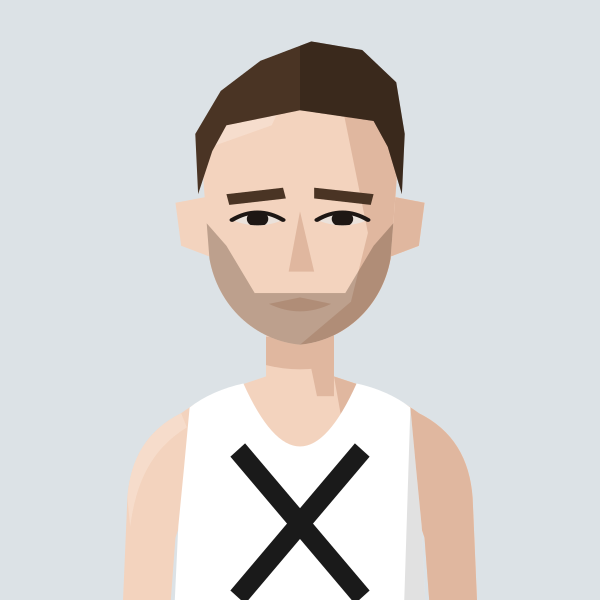
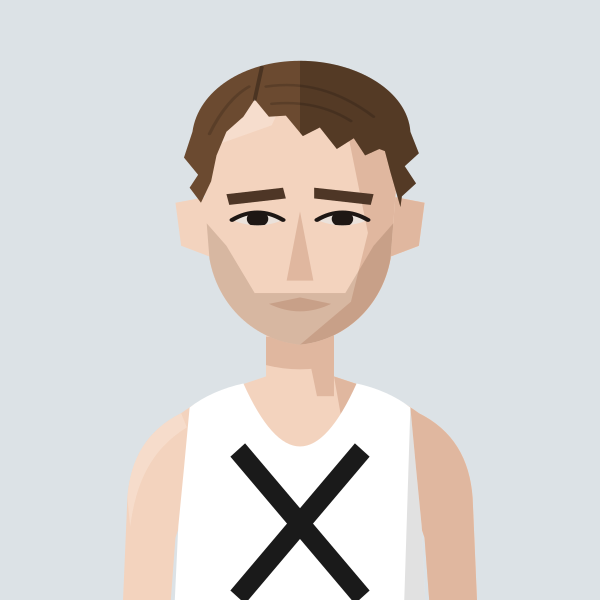
Redraw James McMullan portrait
Claude-Session: https://claude.ai/code/session_01MgmDWhFqnSSnP4iBLKXUZC

Changed region(s): [[0.3, 0.06, 0.72, 0.33], [0.33, 0.36, 0.6, 0.57]]

diff --git a/files/index.html b/files/index.html
@@ -887,7 +887,7 @@ const portraitFile=(name,club)=>{const k=normalizeNameForCompare(name||'').repla
 const portraitClubOf=(name,clubs)=>{for(const c of clubs||[]){if(c&&portraitFile(name,c))return c;}return null;}; /* first of these clubs we have a portrait for */
 // Athlete header figure: superstar portrait if we have one, else a grey runner in the club vest, else the plain vest icon
 // Changes whenever any portrait changes (set by tools/build_og.py), so browsers fetch fresh images instead of old cached ones
-const PORTRAIT_V='518c416c';const PORTRAIT_WOMEN='abbey-brooke,abbie-bulbulian,adele-prince,aimee-hargreaves,aisling-ahern,alex-brown,alex-gandee,alex-marginean,alex-miller,alexa-parker,alexandra-barbour,alice-braham,alice-bridger-morales,alice-crane,alice-martin,alice-reed,alice-smith,alison-purnell,alison-thomson,amelia-pettitt,amy-clements,andrea-barber,anika-schwarze-chintapatla,anna-garnier,anna-garnier-hw,anna-sharp,annabel-hobday,annabelle-hadlow,anne-hegvold,annmarie-seymour,ava-mcandie,becky-briggs,bethan-goddard,bethanie-murray,bethany-brown,betsy-griffiths,billie-mcclosky,camilla-barden,caoimhe-nic-fhogartaigh,carolyne-baxter,catherine-bryson,catherine-eastham,catherine-kandie,cathy-ansell,charlotte-griffiths,chloe-beckett,chloe-tighe,chrissie-wellington,claire-grima,clara-pettit,clare-elms,clare-pauzers,dillan-quinn,dorchie-cockerell,eilidh-hide,elinor-skinner,eliza-grant,elizabeth-apsley,elizabeth-stavreski,ella-fennelly,ella-king-powrie,ella-may-hards,ella-newton,ellen-weir,ellie-brown,ellie-freeden,eloise-bull,emilie-arnoux,emily-barrett,emily-bradley,emily-lowery,emily-robbins,emma-bond,emma-gordon,emma-howsham,emma-lord,emma-rowland,estle-viljoen,evie-warren,felicity-cole,felicity-harrison,felicity-hayward,fi-maddocks,fiona-clark,fiona-de-mauny,florence-wiggins,gabby-collison,gabriel-reynolds,gemma-newport,genevieve-blanch,georgia-curry,georgie-bruinvels,georgie-fenn,georgie-furze,georgie-grgec,gina-galbraith,grace-leyland,grace-richardson,hannah-edwards,hannah-english,hayley-munn,hayley-munn-cc,heather-statham,heather-statham-cc,helen-alsop,helena-corbin,helena-keenan,holly-nixon,holly-pan,imogen-mackie,imogen-wolsey,iona-cousland,isabel-bradley,isabel-brinsden,isabel-hodder,isabelle-pickett,jennifer-nandi,jennifer-smith,jess-reed,jess-saunders,jess-winfield,jessica-davies,jessica-lowe,jodie-favell,jon-hobbs,josephine-rhodes,julia-bleasdale,julia-wedmore,juliet-hodder,juliette-clark,jurgita-levertaviciute,justine-lynch,karen-fenner,karen-xiang,karina-box,kate-axford,kate-williams,kathy-sharpe,katie-ellen-french,katie-good,katie-snowden,katy-hedgethorne,kitty-shepherd-cross,kristina-popadich,lara-bromilow,lara-mangan,laura-goodson,laura-miles,lauren-major,lea-adamson,lily-newton,lisa-bailey,lisa-thomas,lisa-thomas-hw,lizzie-goldie-scot,louise-cooper,lucy-jones,lucy-macalister,lucy-peters,lydia-blackmore,lydia-gallyer-barnett,maddie-mastrolonardo,maddy-whitman,maeve-kenny,margaret-coogan,martina-conner,mary-james,mary-setyabule,matilde-lomba,megan-gildea,mel-wilkins,mhairi-hall,mimi-corden-lloyd,molly-oconnor,molly-smith,monika-gajek,naomi-lenane,natalie-beadle,natalie-seymour,natasha-lodge,niamh-thompson,nicky-hayes,nicola-cartlidge,nicola-douglas,nikki-haines,nikki-sturzaker,nina-mills,olivia-papaioannou,olivia-stillman,orna-mcginley,pamela-mchutchon,patricia-walker,patrizia-gnoato,penny-oliver,rachel-brown,rebecca-barrow,rebekah-edgar,rosie-powell,ruby-carter,ruby-whyte-wilding,ruby-woolfe,sally-urquhart,sally-young,sally-young-slh,sam-whiting,samantha-munday,sarah-astin,sarah-dewhirst,sarah-grover,sarah-hanley,sarah-holt,sarah-murphy,sarah-palmer,sarah-palmer-ran,sarah-riceman,sarah-young,saron-haileselase,serena-carter,sophie-cowper,sophie-harris,sophie-hicks,sophie-tooley,stacey-ward,steph-hewitt,steph-mccall,steph-mccall-cc,steph-mccall-slh,steph-mitchell,suzanne-swaine,suze-spalding,suzie-harvey,suzy-whatmough,syreeta-stracey,teresa-murphy,tilly-heaton,tilly-heaton-bel,tish-jones,vic-cartwright,vicky-clarke,vicky-edwards,victoria-barthelmess,victoria-buck,vikki-filsell,zoe-doyle,zoe-macdonald,zuzana-nemeckova';const PORTRAIT_MEN='aaron-wilson,abdulla-elsadig,adam-leane,adrian-major,adrien-royer,alan-black,alan-mead,alex-brecker,alex-bruce-littlewood,alex-gutteridge,alex-harris,alex-howard,alex-janiaud,alex-lee,alex-lennon,alex-mills,alex-milne,alex-morales,alex-robinson,alex-yee,alexander-marks,amittai-ben-israel,andrew-cumine,andrew-green,andrew-penney,andrew-perfect,andrew-simms,andrew-warburton,andrius-jaksevicius,andy-coley-maud,andy-coley-maud-cc,andy-fyfe,andy-north,andy-paton,andy-weir,angus-butler,angus-lamb,anisse-ismaili,arlo-ludewick,arne-dumez,arthur-peel,ashley-goncalves,barnaby-day,barry-collins,barry-sawyer,ben-clarke,ben-coughlan,ben-harding,ben-hurley,ben-ireland,ben-millar,ben-paviour,ben-pearce,ben-racle,ben-revill,ben-reynolds,ben-scott,ben-toomer,benedict-whitby,benjamin-hilson,bernie-ford,bill-kerr,bill-weller,bill-weller-wal,bob-harrison,bob-holt,bob-lunnon,bob-rayman,bob-smith,bradley-courtney-pinn,brandon-dewar,brian-gorman,brian-wilder,caleb-hathaway,callum-stewart,cameron-dockerill,cameron-reilly,carl-delaney,charles-herrington,charlie-dabbs,charlie-dickinson,charlie-eastaugh,charlie-manning,charlie-pickett,charlie-rogers,charlie-sandison,charlie-walker,charlie-wyllie,che-compton,chris-busaileh,chris-busaileh-hhh,chris-greenwood,chris-keavey,chris-moss,chris-steer,chris-threadgold,chris-warren,christian-lee,christopher-parker,clive-gilby,clive-shippen,colin-high,colin-pearson,conall-mcnally,conall-whelan,craig-ruddy,dame-dibaba,dan-cliffe,dan-pettitt,daniel-shaw,daniel-wolff,darren-mead,dave-beard,dave-beaver,dave-clarke,dave-glassborow,dave-hill,dave-holt,dave-taylor,david-anderson,david-bowers,david-grima,david-north,david-ogden,david-symons,david-walsh,david-williams,deron-fagan,dick-piotrowski,dimos-evangelidis,dom-nolan,dominic-kiralyfi,don-anderson,don-faircloth,don-maclean,doug-maughan,duncan-rimmer,dylan-evans,dylan-mitchard,ed-brewer,ed-catmur,ed-gibson,ed-mallett,ed-prickett,eddie-herridge,eddie-jodrell,eddie-rolls,edward-chuck,eoin-brady,eoin-molloy,ethan-mccolgan,falilou-kebe,findlay-dyer,finn-johnson,fintan-pearce,frank-tickner,frank-ward,fred-paget,fred-slemeck,fred-stebbings,freddie-hessian,garret-lee,gary-ribbons,gary-ribbons-ee,gary-staines,gary-staines-bel,gavin-eccles,geoff-biscoe,geoff-jerwood,geoff-north,george-cotton,george-gathercole,george-jackson,george-loxton,george-mallett,george-ogden,gerry-adams,gerry-north,glen-keegan,gordon-pearce,graham-macky,grenville-tuck,harrison-hayman,harry-guttridge,hector-revill,henry-hart,henry-silverstein,hugo-hewitt,huw-lobb,ian-acreman,ian-crowe-wright,ian-ellwood,ian-harkness,indy-barnes,isaac-lutaya,isaac-parker,jack-brotchie,jack-dickson,jack-dormer,jack-hampshire,jack-harrison,jack-hobden,jack-kavanagh,jack-millar,jack-ramm,jack-woods,jacob-brockmann,jake-simmonds,james-bartram,james-blackwood,james-bowler,james-estall,james-ewing,james-fox,james-hancock,james-harvey,james-hoad,james-kelly,james-mcmullan,james-murray,james-nutt,james-preston,james-roberts,james-stockings,james-ward,james-wootton,jamie-crowe,jamie-parkinson,jared-martin,jean-paul-wright,jeff-cunningham,jeremy-dempsey,jermaine-mays,jerry-watson,jim-allchin,jim-rimmer,joachim-wolf,joe-english,joe-hartley,john-baker,john-bicourt,john-bromley,john-davies,john-dear,john-foss,john-foxall,john-gilbert,john-gladwin,john-hutchins,john-kendall,john-kimaiyo,john-lee,john-lethbridge,john-mather,john-moore,john-roberts,john-sanderson,john-snowden,john-stow,john-sullivan,john-thresher,jon-pepper,jon-pepper-slh,jon-phillips,jon-solly,jonathan-cocker,jonathan-collier,jonathan-cornish,jonathan-ratcliffe,jonathan-tipper,jonny-neville,jonny-scott,jordan-weaver,josh-mitchell,josh-snow,josh-trigwell,jules-gevers,junior-galley,justin-chaston,justin-reid,kassa-tadesse,keith-newton,ken-penney,ken-penney-cro,kevin-nash,kevin-quinn,kevin-sturman,kieran-barnes,kieran-white,knut-hegvold,knut-hegvold-bel,larry-ryan,lawrence-avery,lee-lintern,leo-coy,les-presland,les-presland-sur,lewis-lloyd,liam-burthem,lionel-mann,lloyd-kempson,luke-caldwell,macgregor-cox,mack-downie,malachi-byansi,marcello-bizio,marcelo-fortes,marco-mazzotta,mark-anderson,mark-miles,mark-sinclair,mark-tennyson,mark-waller,martin-dent,martin-duff,martin-lake,martin-lewington,martin-shore,mathew-speed,matt-chaston,matt-jones,matt-wood,matt-yates,matthew-edgar,matthew-houchell,matthew-thomas,matthew-varley,max-bloor,max-heyden,max-milarvie,max-nicholls,michael-baker,michael-mccarthy,mick-gowan,mick-woods,mike-beevor,mike-boyle,mike-cummings,mike-farmery,mike-fuller,mike-hayes,mike-kortenray,mike-nouch,mohammed-ismail,monty-hudson,morgan-roberts,nathan-visick,neil-chisholm,neil-phillips,neil-speaight,neil-wilson,nic-lukies,nick-acfield,nick-altmann,nick-bester,nick-bester-hhh,nick-buckle,nick-bundle,nick-goolab,nick-lightfoot,nick-morris,nick-torry,noah-fernandez,norman-stairs,oli-carrington,oliver-carrington,oliver-fox,oliver-reynolds,oliver-young,ollie-foote,ollie-garrod,olly-buck,owen-hind,paddy-roddy,pancho-panchev,paskar-owor,pat-newell,patrick-mcdougall,paul-calver,paul-cheetham,paul-evans,paul-freary,paul-magner,paul-pollock,paul-sanderson,paul-sanderson-wok,pete-carton,pete-gardner,peter-clarke,peter-giles,peter-giles-thh,peter-lighting,phil-carstairs,phil-sanders,phil-sesemann,phil-swinburn,phil-wicks,phil-woodford-smith,raj-paranandi,ralph-street,ranjit-bhatia,ray-foley,reece-edwards,rhys-boorman,rian-mccawley,richard-ashe,richard-giles,richard-henderson,richard-langley,richard-mcdowell,richard-ollington,richard-partridge,richard-sun,richard-ward,rob-armstrong,rob-kelly,rob-tuer,robert-elphick,robert-laing,robert-norville,robert-peacock,robert-sesemann,robin-boon,robin-hudson,roger-alsop,roger-alsop-bel,roger-hackney,ron-clark,ron-linstead,ronan-tanguy,rory-mcmahon,rory-orsborn,ross-braden,ross-christie,rowan-board,rowan-crichton,russell-dessaix-chin,ryan-hickey,ryan-mccallister,sam-bramwell,sam-charlton,sam-gebreselassie,sam-haughian,sam-peters,sam-sommerville,sam-tyas,samuel-dames,samuel-wilcock,sean-cordon,sebastian-anthony,simon-baines,simon-coombes,simon-coppard,simon-fairbrother,simon-holmes,simon-rayner,simon-rayner-hw,simon-wade,simon-wade-hhh,simon-waterhouse,simon-williams,simon-wurr,sonny-nicoll,spencer-barden,stephen-mcleod,stephen-sharp,steve-badgery,steve-badgery-mit,steve-gardner,steve-jones,steve-smythe,steve-smythe-hhh,stuart-beaney,stuart-major,stuart-major-thh,stuart-mccallum,stuart-paton,terry-booth,thomas-dugre,thomas-gandee,thomas-gardner,thomas-renshaw,tim-alexander,tim-eglen,tim-lawrence,tim-watson,toby-cooke,toby-fletcher,tom-austin,tom-cheetham,tom-conlon,tom-davies,tom-gifford,tom-higgs,tom-jervis,tom-lole,tom-south,tom-thornley,tommy-taylor,tony-binda,tony-fairclough,tony-harran,trevor-hart,trevor-williams,valdis-pauzers,valentin-rigori,vic-maughan,wayne-oxborough,will-cockerell,will-lewis,will-marshall,will-scott,will-stockley,william-gardner,yacin-yusuf,zach-nolan';
+const PORTRAIT_V='33d50a44';const PORTRAIT_WOMEN='abbey-brooke,abbie-bulbulian,adele-prince,aimee-hargreaves,aisling-ahern,alex-brown,alex-gandee,alex-marginean,alex-miller,alexa-parker,alexandra-barbour,alice-braham,alice-bridger-morales,alice-crane,alice-martin,alice-reed,alice-smith,alison-purnell,alison-thomson,amelia-pettitt,amy-clements,andrea-barber,anika-schwarze-chintapatla,anna-garnier,anna-garnier-hw,anna-sharp,annabel-hobday,annabelle-hadlow,anne-hegvold,annmarie-seymour,ava-mcandie,becky-briggs,bethan-goddard,bethanie-murray,bethany-brown,betsy-griffiths,billie-mcclosky,camilla-barden,caoimhe-nic-fhogartaigh,carolyne-baxter,catherine-bryson,catherine-eastham,catherine-kandie,cathy-ansell,charlotte-griffiths,chloe-beckett,chloe-tighe,chrissie-wellington,claire-grima,clara-pettit,clare-elms,clare-pauzers,dillan-quinn,dorchie-cockerell,eilidh-hide,elinor-skinner,eliza-grant,elizabeth-apsley,elizabeth-stavreski,ella-fennelly,ella-king-powrie,ella-may-hards,ella-newton,ellen-weir,ellie-brown,ellie-freeden,eloise-bull,emilie-arnoux,emily-barrett,emily-bradley,emily-lowery,emily-robbins,emma-bond,emma-gordon,emma-howsham,emma-lord,emma-rowland,estle-viljoen,evie-warren,felicity-cole,felicity-harrison,felicity-hayward,fi-maddocks,fiona-clark,fiona-de-mauny,florence-wiggins,gabby-collison,gabriel-reynolds,gemma-newport,genevieve-blanch,georgia-curry,georgie-bruinvels,georgie-fenn,georgie-furze,georgie-grgec,gina-galbraith,grace-leyland,grace-richardson,hannah-edwards,hannah-english,hayley-munn,hayley-munn-cc,heather-statham,heather-statham-cc,helen-alsop,helena-corbin,helena-keenan,holly-nixon,holly-pan,imogen-mackie,imogen-wolsey,iona-cousland,isabel-bradley,isabel-brinsden,isabel-hodder,isabelle-pickett,jennifer-nandi,jennifer-smith,jess-reed,jess-saunders,jess-winfield,jessica-davies,jessica-lowe,jodie-favell,jon-hobbs,josephine-rhodes,julia-bleasdale,julia-wedmore,juliet-hodder,juliette-clark,jurgita-levertaviciute,justine-lynch,karen-fenner,karen-xiang,karina-box,kate-axford,kate-williams,kathy-sharpe,katie-ellen-french,katie-good,katie-snowden,katy-hedgethorne,kitty-shepherd-cross,kristina-popadich,lara-bromilow,lara-mangan,laura-goodson,laura-miles,lauren-major,lea-adamson,lily-newton,lisa-bailey,lisa-thomas,lisa-thomas-hw,lizzie-goldie-scot,louise-cooper,lucy-jones,lucy-macalister,lucy-peters,lydia-blackmore,lydia-gallyer-barnett,maddie-mastrolonardo,maddy-whitman,maeve-kenny,margaret-coogan,martina-conner,mary-james,mary-setyabule,matilde-lomba,megan-gildea,mel-wilkins,mhairi-hall,mimi-corden-lloyd,molly-oconnor,molly-smith,monika-gajek,naomi-lenane,natalie-beadle,natalie-seymour,natasha-lodge,niamh-thompson,nicky-hayes,nicola-cartlidge,nicola-douglas,nikki-haines,nikki-sturzaker,nina-mills,olivia-papaioannou,olivia-stillman,orna-mcginley,pamela-mchutchon,patricia-walker,patrizia-gnoato,penny-oliver,rachel-brown,rebecca-barrow,rebekah-edgar,rosie-powell,ruby-carter,ruby-whyte-wilding,ruby-woolfe,sally-urquhart,sally-young,sally-young-slh,sam-whiting,samantha-munday,sarah-astin,sarah-dewhirst,sarah-grover,sarah-hanley,sarah-holt,sarah-murphy,sarah-palmer,sarah-palmer-ran,sarah-riceman,sarah-young,saron-haileselase,serena-carter,sophie-cowper,sophie-harris,sophie-hicks,sophie-tooley,stacey-ward,steph-hewitt,steph-mccall,steph-mccall-cc,steph-mccall-slh,steph-mitchell,suzanne-swaine,suze-spalding,suzie-harvey,suzy-whatmough,syreeta-stracey,teresa-murphy,tilly-heaton,tilly-heaton-bel,tish-jones,vic-cartwright,vicky-clarke,vicky-edwards,victoria-barthelmess,victoria-buck,vikki-filsell,zoe-doyle,zoe-macdonald,zuzana-nemeckova';const PORTRAIT_MEN='aaron-wilson,abdulla-elsadig,adam-leane,adrian-major,adrien-royer,alan-black,alan-mead,alex-brecker,alex-bruce-littlewood,alex-gutteridge,alex-harris,alex-howard,alex-janiaud,alex-lee,alex-lennon,alex-mills,alex-milne,alex-morales,alex-robinson,alex-yee,alexander-marks,amittai-ben-israel,andrew-cumine,andrew-green,andrew-penney,andrew-perfect,andrew-simms,andrew-warburton,andrius-jaksevicius,andy-coley-maud,andy-coley-maud-cc,andy-fyfe,andy-north,andy-paton,andy-weir,angus-butler,angus-lamb,anisse-ismaili,arlo-ludewick,arne-dumez,arthur-peel,ashley-goncalves,barnaby-day,barry-collins,barry-sawyer,ben-clarke,ben-coughlan,ben-harding,ben-hurley,ben-ireland,ben-millar,ben-paviour,ben-pearce,ben-racle,ben-revill,ben-reynolds,ben-scott,ben-toomer,benedict-whitby,benjamin-hilson,bernie-ford,bill-kerr,bill-weller,bill-weller-wal,bob-harrison,bob-holt,bob-lunnon,bob-rayman,bob-smith,bradley-courtney-pinn,brandon-dewar,brian-gorman,brian-wilder,caleb-hathaway,callum-stewart,cameron-dockerill,cameron-reilly,carl-delaney,charles-herrington,charlie-dabbs,charlie-dickinson,charlie-eastaugh,charlie-manning,charlie-pickett,charlie-rogers,charlie-sandison,charlie-walker,charlie-wyllie,che-compton,chris-busaileh,chris-busaileh-hhh,chris-greenwood,chris-keavey,chris-moss,chris-steer,chris-threadgold,chris-warren,christian-lee,christopher-parker,clive-gilby,clive-shippen,colin-high,colin-pearson,conall-mcnally,conall-whelan,craig-ruddy,dame-dibaba,dan-cliffe,dan-pettitt,daniel-shaw,daniel-wolff,darren-mead,dave-beard,dave-beaver,dave-clarke,dave-glassborow,dave-hill,dave-holt,dave-taylor,david-anderson,david-bowers,david-grima,david-north,david-ogden,david-symons,david-walsh,david-williams,deron-fagan,dick-piotrowski,dimos-evangelidis,dom-nolan,dominic-kiralyfi,don-anderson,don-faircloth,don-maclean,doug-maughan,duncan-rimmer,dylan-evans,dylan-mitchard,ed-brewer,ed-catmur,ed-gibson,ed-mallett,ed-prickett,eddie-herridge,eddie-jodrell,eddie-rolls,edward-chuck,eoin-brady,eoin-molloy,ethan-mccolgan,falilou-kebe,findlay-dyer,finn-johnson,fintan-pearce,frank-tickner,frank-ward,fred-paget,fred-slemeck,fred-stebbings,freddie-hessian,garret-lee,gary-ribbons,gary-ribbons-ee,gary-staines,gary-staines-bel,gavin-eccles,geoff-biscoe,geoff-jerwood,geoff-north,george-cotton,george-gathercole,george-jackson,george-loxton,george-mallett,george-ogden,gerry-adams,gerry-north,glen-keegan,gordon-pearce,graham-macky,grenville-tuck,harrison-hayman,harry-guttridge,hector-revill,henry-hart,henry-silverstein,hugo-hewitt,huw-lobb,ian-acreman,ian-crowe-wright,ian-ellwood,ian-harkness,indy-barnes,isaac-lutaya,isaac-parker,jack-brotchie,jack-dickson,jack-dormer,jack-hampshire,jack-harrison,jack-hobden,jack-kavanagh,jack-millar,jack-ramm,jack-woods,jacob-brockmann,jake-simmonds,james-bartram,james-blackwood,james-bowler,james-estall,james-ewing,james-fox,james-hancock,james-harvey,james-hoad,james-kelly,james-mcmullan,james-murray,james-nutt,james-preston,james-roberts,james-stockings,james-ward,james-wootton,jamie-crowe,jamie-parkinson,jared-martin,jean-paul-wright,jeff-cunningham,jeremy-dempsey,jermaine-mays,jerry-watson,jim-allchin,jim-rimmer,joachim-wolf,joe-english,joe-hartley,john-baker,john-bicourt,john-bromley,john-davies,john-dear,john-foss,john-foxall,john-gilbert,john-gladwin,john-hutchins,john-kendall,john-kimaiyo,john-lee,john-lethbridge,john-mather,john-moore,john-roberts,john-sanderson,john-snowden,john-stow,john-sullivan,john-thresher,jon-pepper,jon-pepper-slh,jon-phillips,jon-solly,jonathan-cocker,jonathan-collier,jonathan-cornish,jonathan-ratcliffe,jonathan-tipper,jonny-neville,jonny-scott,jordan-weaver,josh-mitchell,josh-snow,josh-trigwell,jules-gevers,junior-galley,justin-chaston,justin-reid,kassa-tadesse,keith-newton,ken-penney,ken-penney-cro,kevin-nash,kevin-quinn,kevin-sturman,kieran-barnes,kieran-white,knut-hegvold,knut-hegvold-bel,larry-ryan,lawrence-avery,lee-lintern,leo-coy,les-presland,les-presland-sur,lewis-lloyd,liam-burthem,lionel-mann,lloyd-kempson,luke-caldwell,macgregor-cox,mack-downie,malachi-byansi,marcello-bizio,marcelo-fortes,marco-mazzotta,mark-anderson,mark-miles,mark-sinclair,mark-tennyson,mark-waller,martin-dent,martin-duff,martin-lake,martin-lewington,martin-shore,mathew-speed,matt-chaston,matt-jones,matt-wood,matt-yates,matthew-edgar,matthew-houchell,matthew-thomas,matthew-varley,max-bloor,max-heyden,max-milarvie,max-nicholls,michael-baker,michael-mccarthy,mick-gowan,mick-woods,mike-beevor,mike-boyle,mike-cummings,mike-farmery,mike-fuller,mike-hayes,mike-kortenray,mike-nouch,mohammed-ismail,monty-hudson,morgan-roberts,nathan-visick,neil-chisholm,neil-phillips,neil-speaight,neil-wilson,nic-lukies,nick-acfield,nick-altmann,nick-bester,nick-bester-hhh,nick-buckle,nick-bundle,nick-goolab,nick-lightfoot,nick-morris,nick-torry,noah-fernandez,norman-stairs,oli-carrington,oliver-carrington,oliver-fox,oliver-reynolds,oliver-young,ollie-foote,ollie-garrod,olly-buck,owen-hind,paddy-roddy,pancho-panchev,paskar-owor,pat-newell,patrick-mcdougall,paul-calver,paul-cheetham,paul-evans,paul-freary,paul-magner,paul-pollock,paul-sanderson,paul-sanderson-wok,pete-carton,pete-gardner,peter-clarke,peter-giles,peter-giles-thh,peter-lighting,phil-carstairs,phil-sanders,phil-sesemann,phil-swinburn,phil-wicks,phil-woodford-smith,raj-paranandi,ralph-street,ranjit-bhatia,ray-foley,reece-edwards,rhys-boorman,rian-mccawley,richard-ashe,richard-giles,richard-henderson,richard-langley,richard-mcdowell,richard-ollington,richard-partridge,richard-sun,richard-ward,rob-armstrong,rob-kelly,rob-tuer,robert-elphick,robert-laing,robert-norville,robert-peacock,robert-sesemann,robin-boon,robin-hudson,roger-alsop,roger-alsop-bel,roger-hackney,ron-clark,ron-linstead,ronan-tanguy,rory-mcmahon,rory-orsborn,ross-braden,ross-christie,rowan-board,rowan-crichton,russell-dessaix-chin,ryan-hickey,ryan-mccallister,sam-bramwell,sam-charlton,sam-gebreselassie,sam-haughian,sam-peters,sam-sommerville,sam-tyas,samuel-dames,samuel-wilcock,sean-cordon,sebastian-anthony,simon-baines,simon-coombes,simon-coppard,simon-fairbrother,simon-holmes,simon-rayner,simon-rayner-hw,simon-wade,simon-wade-hhh,simon-waterhouse,simon-williams,simon-wurr,sonny-nicoll,spencer-barden,stephen-mcleod,stephen-sharp,steve-badgery,steve-badgery-mit,steve-gardner,steve-jones,steve-smythe,steve-smythe-hhh,stuart-beaney,stuart-major,stuart-major-thh,stuart-mccallum,stuart-paton,terry-booth,thomas-dugre,thomas-gandee,thomas-gardner,thomas-renshaw,tim-alexander,tim-eglen,tim-lawrence,tim-watson,toby-cooke,toby-fletcher,tom-austin,tom-cheetham,tom-conlon,tom-davies,tom-gifford,tom-higgs,tom-jervis,tom-lole,tom-south,tom-thornley,tommy-taylor,tony-binda,tony-fairclough,tony-harran,trevor-hart,trevor-williams,valdis-pauzers,valentin-rigori,vic-maughan,wayne-oxborough,will-cockerell,will-lewis,will-marshall,will-scott,will-stockley,william-gardner,yacin-yusuf,zach-nolan';
 // Runners whose dog pops up on their own profile page (a -dog.svg version of their portrait)
 const PROFILE_DOGS=new Set(['john-sanderson','penny-oliver','james-hancock','angus-butler']);
 const AthletePortrait=({name,club,w,fill,onClick,blink})=>{const[failed,setFailed]=useState(false);const file=portraitFile(name,club);const src0=file?`/portraits/athletes/${file}.svg?v=${PORTRAIT_V}`:PORTRAIT_CLUBS.has(club)?`/portraits/clubs/${club.replace(/\//g,'').replace(/&/g,'and')}.svg?v=${PORTRAIT_V}`:null;const blinkSrc=useBlinkSrc(file?(PROFILE_DOGS.has(file)?`/portraits/athletes/${file}-dog.svg?v=${PORTRAIT_V}`:src0):null,!!blink);const src=blinkSrc||src0;if(!src||failed)return<div onClick={onClick} className={onClick?'cursor-pointer':''}><ClubShield club={club} size={w}/></div>;const h=Math.round(w*148/126),ih=Math.round(w*1.4);if(fill)return<div onClick={onClick} className="cursor-pointer" style={{alignSelf:'stretch',minHeight:h,aspectRatio:'126 / 148',flexShrink:0,position:'relative',borderRadius:4,overflow:'hidden'}}><img src={src} alt={file?`Portrait of ${name.replace(/\s*\([^)]*\)$/,'')}`:`Runner in ${CLUBS[club]?.name||club} vest`} style={{position:'absolute',top:0,left:0,display:'block',width:'100%',height:'auto'}} onError={()=>setFailed(true)}/></div>;return<div style={{width:w,height:h,borderRadius:4,overflow:'hidden',flexShrink:0}}><img src={src} alt={file?`Portrait of ${name.replace(/\s*\([^)]*\)$/,'')}`:`Runner in ${CLUBS[club]?.name||club} vest`} width={w} height={ih} style={{display:'block',width:w,height:ih}} onError={()=>setFailed(true)}/></div>;};

diff --git a/tools/gen_portraits.py b/tools/gen_portraits.py
@@ -2167,4 +2167,9 @@ def _coleymaud(kit):
     return cheekdimples(nose(brows(taperbrows(eyes(s, None, 0), 1.2), 0, 0, 3), 1.05, 1.2))
 save("andy-coley-maud", _coleymaud("G&G"))
 save("andy-coley-maud-cc", _coleymaud("C/C"))
+# James McMullan (THH), Oct 2026 redraw from a 2013 start-line photo: shaggy side-swept mid-brown hair, light stubble
+def _mcmullan():
+    s = figure("THH", skin=1, hair="shaggyside", hair_colour="#6B4A30", brow_colour="#4E3626", facial="stubble", facial_colour="#6B4A30")
+    return nose(eyes(s.replace('Z" opacity=".32"/>', 'Z" opacity=".2"/>', 1), None, 0), 1.05, 1.15)
+save("james-mcmullan", _mcmullan())
 export_site()
